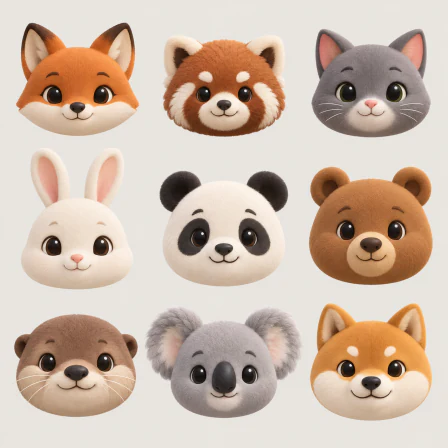
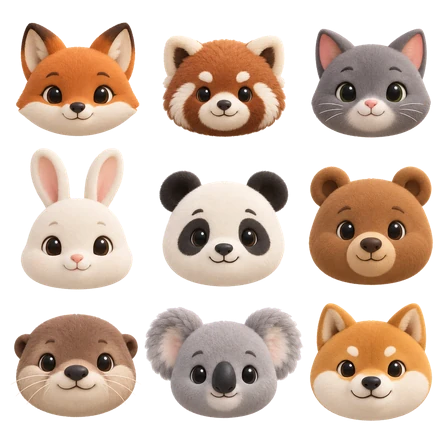
feat(agents): subagent portraits are cut out — no tile, no frame, no ring
The 36 portraits came with a warm backdrop and a drop shadow baked into
their sheets, so every avatar sat on a light tile. matte.py (kept beside
the 1254px originals) keys the backdrop and shadow out: backdrop-coloured
pixels no brighter than it, and smooth grey shadow, connected to the
sheet's edge through a 3px-narrowed mask so a white robot or ghost never
leaks; edges get soft alpha with the backdrop un-mixed. The 448px sheets
are WebP with alpha (225 KB together). Avatars paint no tile, the
character fills 94% of the box, and the environment card's stacked
faces lose their ring.

diff --git a/desktop/tests/visual/subagent-avatars.spec.ts b/desktop/tests/visual/subagent-avatars.spec.ts
@@ -1,0 +1,78 @@
+import { expect, test } from '@playwright/test'
+import { installVisualCoreBridge } from './visualBridge'
+
+// UI-S13 · 1: the subagent portraits are cut out of their sheets. In the
+// browser that decodes them: every sheet is clear at its corners and solid
+// at the middle of each of the 36 frames, and a portrait avatar paints no
+// tile behind the character.
+
+test.beforeEach(async ({ page }) => {
+  await installVisualCoreBridge(page)
+})
+
+test('UI-S13 · 1 · every portrait is cut out: clear around, solid in the middle', async ({
+  page,
+}) => {
+  await page.goto('/chat/build-ui?visualTheme=dark')
+  const result = await page.evaluate(async () => {
+    const base = '/src/assets/subagent-avatars/'
+    const frames = (await (await fetch(`${base}frames.json`)).json()) as {
+      id: string
+      group: string
+      rect: [number, number, number, number]
+    }[]
+    const corners: Record<string, number[]> = {}
+    const centres: Record<string, number> = {}
+    for (const group of ['A', 'B', 'C', 'D']) {
+      const blob = await (await fetch(`${base}${group}-sheet.webp`)).blob()
+      const bitmap = await createImageBitmap(blob)
+      const canvas = new OffscreenCanvas(bitmap.width, bitmap.height)
+      const context = canvas.getContext('2d')!
+      context.drawImage(bitmap, 0, 0)
+      const alpha = (x: number, y: number) =>
+        context.getImageData(x, y, 1, 1).data[3]!
+      const w = bitmap.width - 2
+      const h = bitmap.height - 2
+      corners[group] = [alpha(1, 1), alpha(w, 1), alpha(1, h), alpha(w, h)]
+      for (const frame of frames.filter((f) => f.group === group)) {
+        const [x, y, fw, fh] = frame.rect
+        centres[frame.id] = alpha(
+          Math.round(x + fw / 2),
+          Math.round(y + fh / 2),
+        )
+      }
+    }
+    return { corners, centres }
+  })
+  for (const [group, values] of Object.entries(result.corners))
+    expect(values, group).toEqual([0, 0, 0, 0])
+  expect(Object.keys(result.centres)).toHaveLength(36)
+  for (const [id, value] of Object.entries(result.centres))
+    expect(value, id).toBe(255)
+})
+
+test('UI-S13 · 1 · a portrait avatar paints no tile behind the character', async ({
+  page,
+}) => {
+  await page.goto(
+    '/chat/build-ui?settings=executors&visualTheme=dark&visualExecutors=token',
+  )
+  const avatar = page
+    .getByRole('dialog', { name: '设置' })
+    .locator('.ds-avatar[data-shown="sprite"]')
+    .first()
+  await expect(avatar).toBeVisible()
+  const look = await avatar.evaluate((element) => {
+    const style = getComputedStyle(element)
+    return {
+      background: style.backgroundColor,
+      shadow: style.boxShadow,
+      border: style.borderTopWidth,
+    }
+  })
+  expect(look).toEqual({
+    background: 'rgba(0, 0, 0, 0)',
+    shadow: 'none',
+    border: '0px',
+  })
+})

diff --git a/desktop/src/renderer/src/components/ui/subagentAvatarAssets.test.ts b/desktop/src/renderer/src/components/ui/subagentAvatarAssets.test.ts
@@ -30,3 +30,19 @@ it('keeps every frame of frames.json inside a 448px sheet', () => {
     expect(Math.min(w, h), id).toBeGreaterThanOrEqual(80)
   }
 })
+
+// UI-S13 · 1: the portraits have no backdrop: every sheet is a WebP with an
+// alpha channel (VP8X with the alpha flag, and an ALPH chunk). Which pixels
+// are clear is checked in the browser (tests/visual/subagent-avatars.spec.ts).
+it('UI-S13 · 1 · every sheet carries an alpha channel', () => {
+  const sheets = readdirSync(DIR).filter((name) => name.endsWith('.webp'))
+  for (const name of sheets) {
+    const bytes = readFileSync(join(DIR, name))
+    expect(bytes.toString('ascii', 0, 4), name).toBe('RIFF')
+    expect(bytes.toString('ascii', 8, 12), name).toBe('WEBP')
+    expect(bytes.toString('ascii', 12, 16), name).toBe('VP8X')
+    // VP8X flags: bit 4 = alpha.
+    expect(bytes[20]! & 0x10, name).toBe(0x10)
+    expect(bytes.includes(Buffer.from('ALPH')), name).toBe(true)
+  }
+})

diff --git a/desktop/src/renderer/src/components/ui/display.test.ts b/desktop/src/renderer/src/components/ui/display.test.ts
@@ -527,12 +527,12 @@ describe('Avatar sprite (test 5)', () => {
     )
   })
 
-  it('keeps the 8% breathing room and the aspect of the measured window', () => {
-    // 302 × 354 fitted into the 84% content box of 100 device pixels.
+  it('keeps 3% room and the aspect of the measured window (UI-S13)', () => {
+    // 108 × 126 fitted into the 94% content box of 100 device pixels.
     const layout = portraitLayout([174, 297, 108, 126], 100)
-    expect(layout.height).toBe(84)
-    expect(layout.width).toBe(Math.round((84 * 302) / 354))
-    expect(layout.y).toBe(8)
+    expect(layout.height).toBe(94)
+    expect(layout.width).toBe(Math.round((94 * 108) / 126))
+    expect(layout.y).toBe(3)
     expect(layout.x).toBe(Math.round((100 - layout.width) / 2))
   })
 

diff --git a/desktop/src/renderer/src/components/ui/spriteAvatar.ts b/desktop/src/renderer/src/components/ui/spriteAvatar.ts
@@ -18,8 +18,11 @@ export interface SpriteLayout {
   height: number
 }
 
-/** Equal 8% breathing room on every side keeps ears and antennae in. */
-const CONTENT_PERCENT = 84
+/**
+ * 3% room on every side: the portraits have no tile any more (UI-S13), so
+ * the character fills the box; ears and antennae stay inside.
+ */
+const CONTENT_PERCENT = 94
 
 /** Fit the measured window into the content box, centred (aspect "meet"). */
 export function portraitLayout(rect: SpriteRect, pixels: number): SpriteLayout {

diff --git a/desktop/src/renderer/src/components/conversation/environment/EnvironmentAgents.vue b/desktop/src/renderer/src/components/conversation/environment/EnvironmentAgents.vue
@@ -238,13 +238,9 @@ async function end(agent: AgentView) {
   display: inline-flex;
   align-items: center;
 }
-/* Overlapping faces, each ringed in the card fill. */
+/* Overlapping cut-out faces (UI-S13): no ring, no tile. */
 .faces > * + * {
   margin-left: calc(-1 * var(--space-1-5));
-}
-.faces > * {
-  border-radius: var(--r-full);
-  box-shadow: 0 0 0 1.5px rgb(var(--env-card-fill));
 }
 .agent-list {
   padding: var(--space-0-5) 0 var(--space-1) var(--space-2);

diff --git a/desktop/src/renderer/src/components/ui/subagentAvatars.test.ts b/desktop/src/renderer/src/components/ui/subagentAvatars.test.ts
@@ -51,8 +51,8 @@ it('keeps the same portrait across reorder, phase changes and remount, with an i
     number,
   ]
   const layout = portraitLayout(rect, 100)
-  expect(Math.max(layout.width, layout.height)).toBe(84)
-  expect(Math.min(layout.x, layout.y)).toBe(8)
+  expect(Math.max(layout.width, layout.height)).toBe(94)
+  expect(Math.min(layout.x, layout.y)).toBe(3)
   ids.value.reverse()
   phase.value = 'completed'
   await nextTick()

diff --git a/desktop/src/renderer/src/components/ui/Avatar.vue b/desktop/src/renderer/src/components/ui/Avatar.vue
@@ -222,9 +222,10 @@ const colorSlot = computed(() =>
   border-radius: var(--r-md);
 }
 
-/* Portrait sheets have a warm neutral ground in both themes. */
+/* Portraits are cut out of their sheets (UI-S13): no tile, no frame. */
 .ds-avatar[data-shown='sprite'] {
-  background: rgb(var(--avatar-surface));
+  border-radius: 0;
+  background: transparent;
 }
 
 /* Provider logos sit on a panel tile with a hairline; 16px is bare. */

diff --git a/desktop/src/renderer/src/theme/base.css b/desktop/src/renderer/src/theme/base.css
@@ -25,8 +25,6 @@ body {
 
 /* Image lightboxes use a constant dark viewing surface in both themes. */
 :root {
-  /* Warm neutral of the local generated portrait sheets, invariant by theme. */
-  --avatar-surface: 233 230 223;
   --image-viewer-bg: 9 10 12;
   --image-viewer-veil: 0.94; /* alpha of the viewer backdrop (0.98 with reduced transparency) */
   --image-viewer-ink: 243 243 244;

diff --git a/docs/design/components.md b/docs/design/components.md
@@ -2,7 +2,7 @@
 
 > 文档状态：Active<br>
 > 面向读者：设计者、前端开发者、维护者<br>
-> 最后核验：2026-10-21<br>
+> 最后核验：2026-10-21（对照 `a33caa42`）<br>
 > 事实源：`desktop/src/renderer/src/components/ui/`（组件、`index.ts`、`floatingMenu.ts`、`headTailCap.ts`、`useCopyFeedback.ts`、`elapsed.ts`，测试 `display.test.ts`、`actions.test.ts`、`primitives.test.ts`、`overlays.test.ts`）、`desktop/src/renderer/src/components/settings/ui/`、`desktop/src/renderer/src/theme/components.css`；开发模式下打开 `?ui-gallery`、`?settings-gallery` 查看全部组件与状态
 
 界面控件统一来自 `components/ui/`。组件只用 [设计令牌](tokens.md) 的 L2/L3 令牌，深浅两套主题都成立；可交互的控件都能用键盘操作，焦点统一画 `--focus-ring`。文字规格见[排版](typography.md)，动效见[动效](motion.md)，弹窗、确认框与轻提示见[浮层规范](overlays.md)。下面只写已经实现的组件；新增变体先改组件和这里，再在页面里用。
@@ -29,7 +29,7 @@
 | Dot    | 状态圆点，6 / 8px：ok / warn / error / running（金色脉冲，一屏只有一个「运行中」）/ idle / attention（等待用户的审批与计划）。有 `label` 时读屏可读，否则只作装饰                                        |
 | Avatar | 16 / 20 / 24 / 28 / 40。sprite（子智能体头像）/ color（六种头像色之一 + 首字）/ logo（模型商标志或插件图片，失败时退回颜色块）/ initials（中性底首字）；刻度以外的尺寸取最近一档并报错                   |
 
-子智能体头像从 1254px 的整张素材里裁出，裁剪和缩放用一次 `createImageBitmap` 完成，画进尺寸正好是「显示尺寸 × 设备像素比」的 canvas；页面上不保留整张素材，同一头像同一尺寸只解码一次。
+子智能体头像是透明底的角色，没有方片和外框（UI-S13），从 448px 的整张素材里裁出，占头像框的 94%；裁剪和缩放用一次 `createImageBitmap` 完成，画进尺寸正好是「显示尺寸 × 设备像素比」的 canvas；页面上不保留整张素材，同一头像同一尺寸只解码一次。
 
 ## 列表与表面
 
